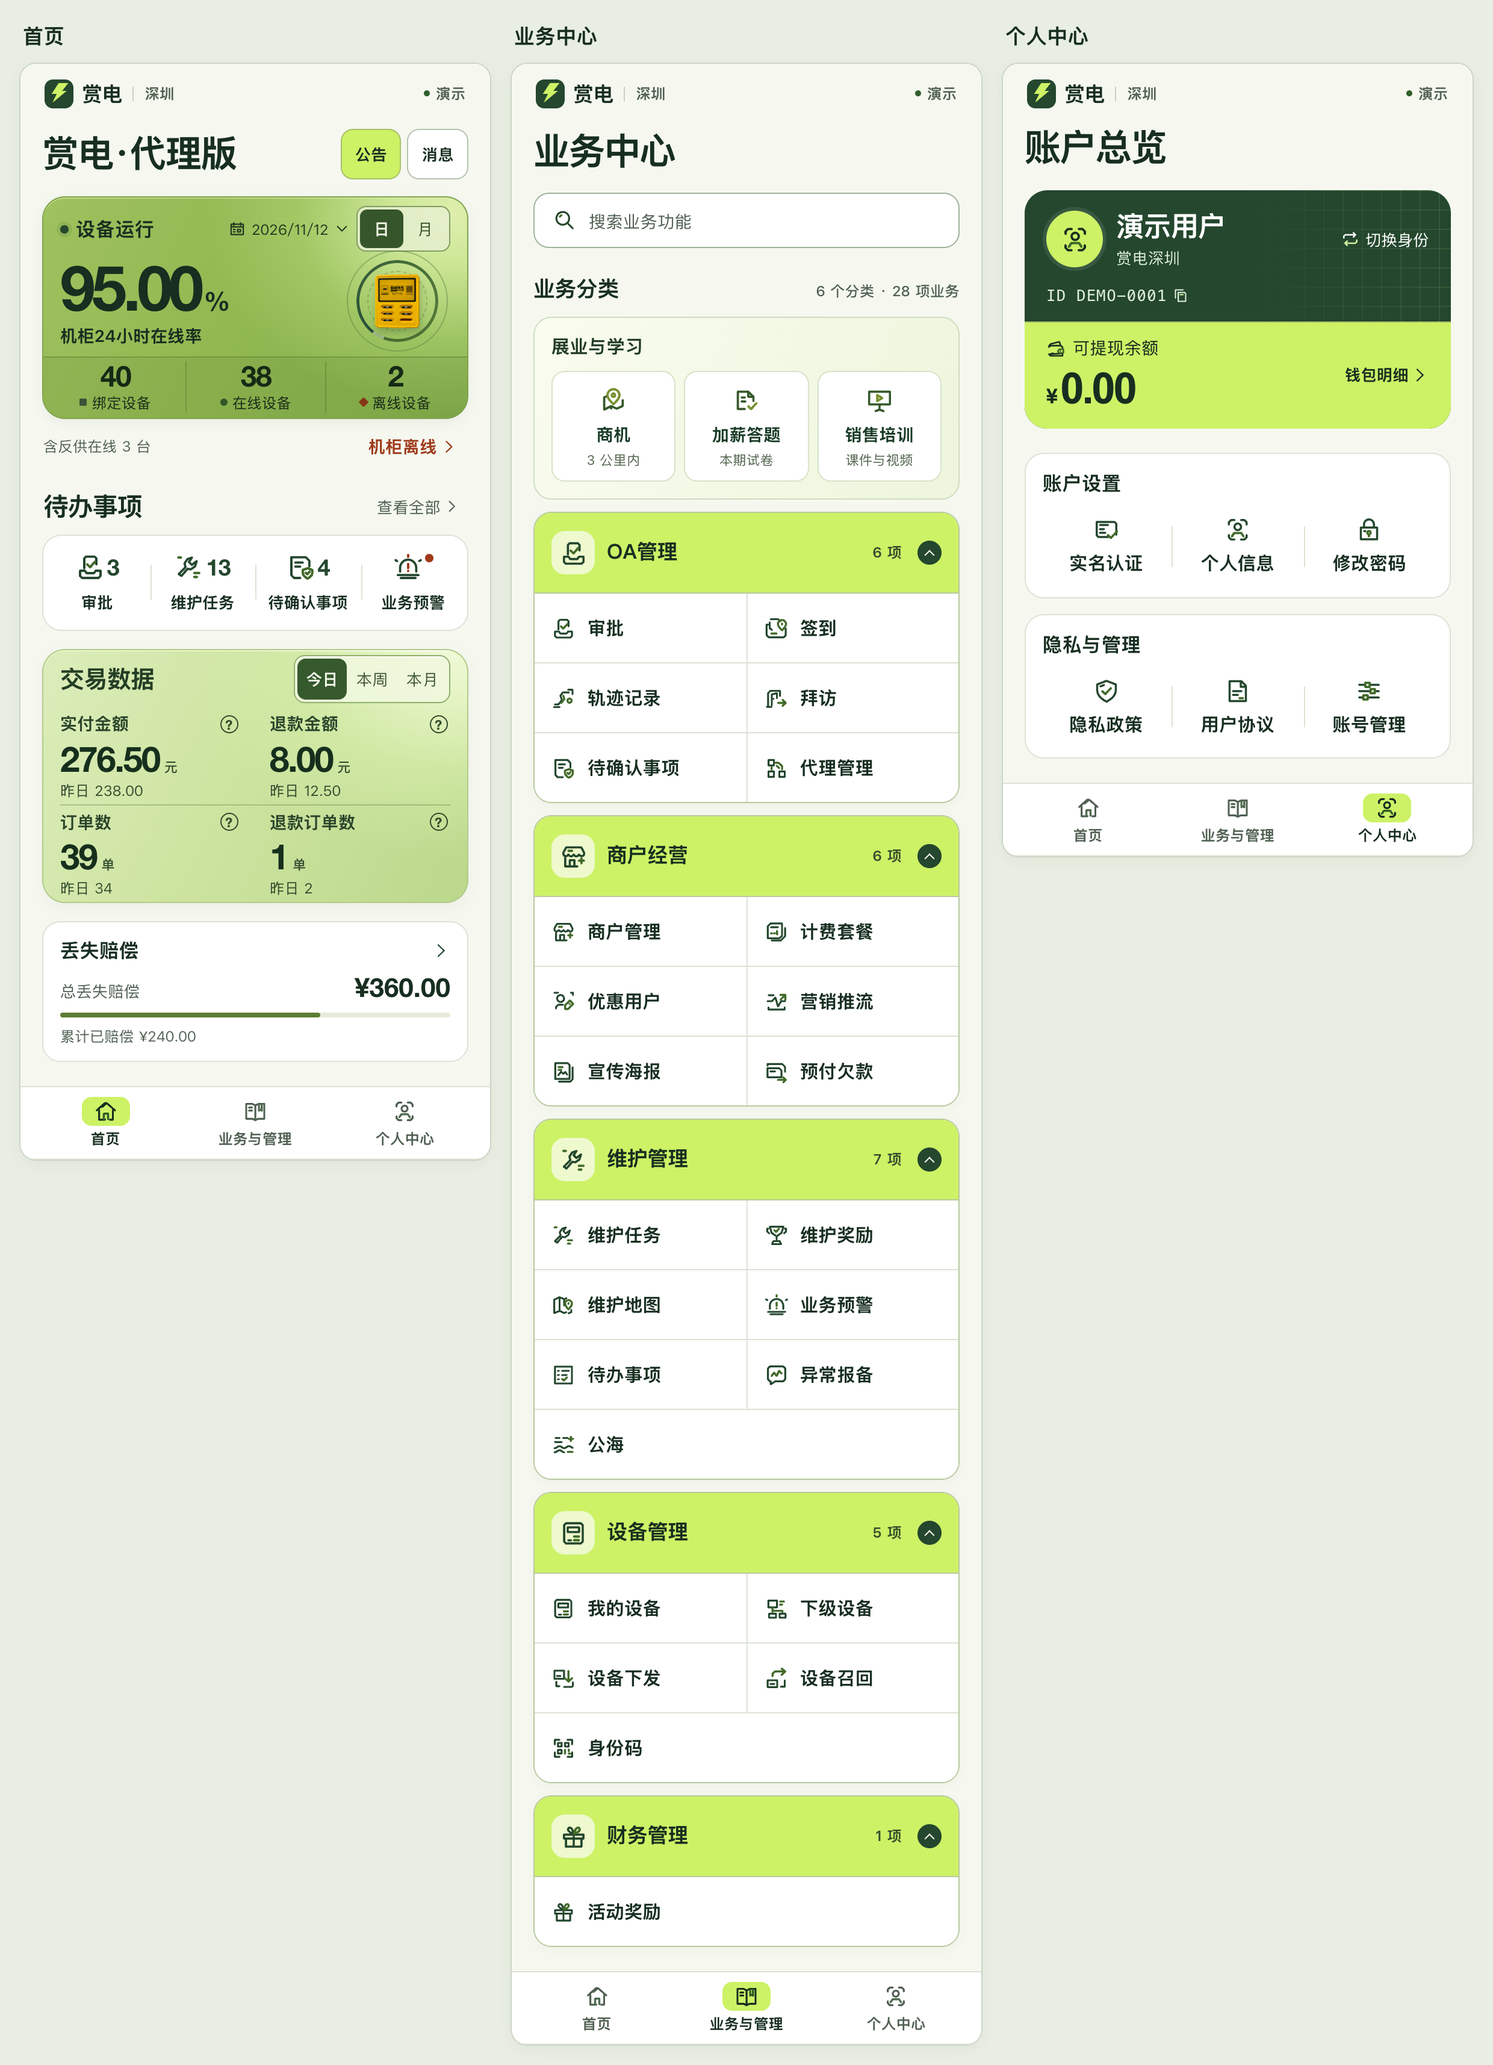
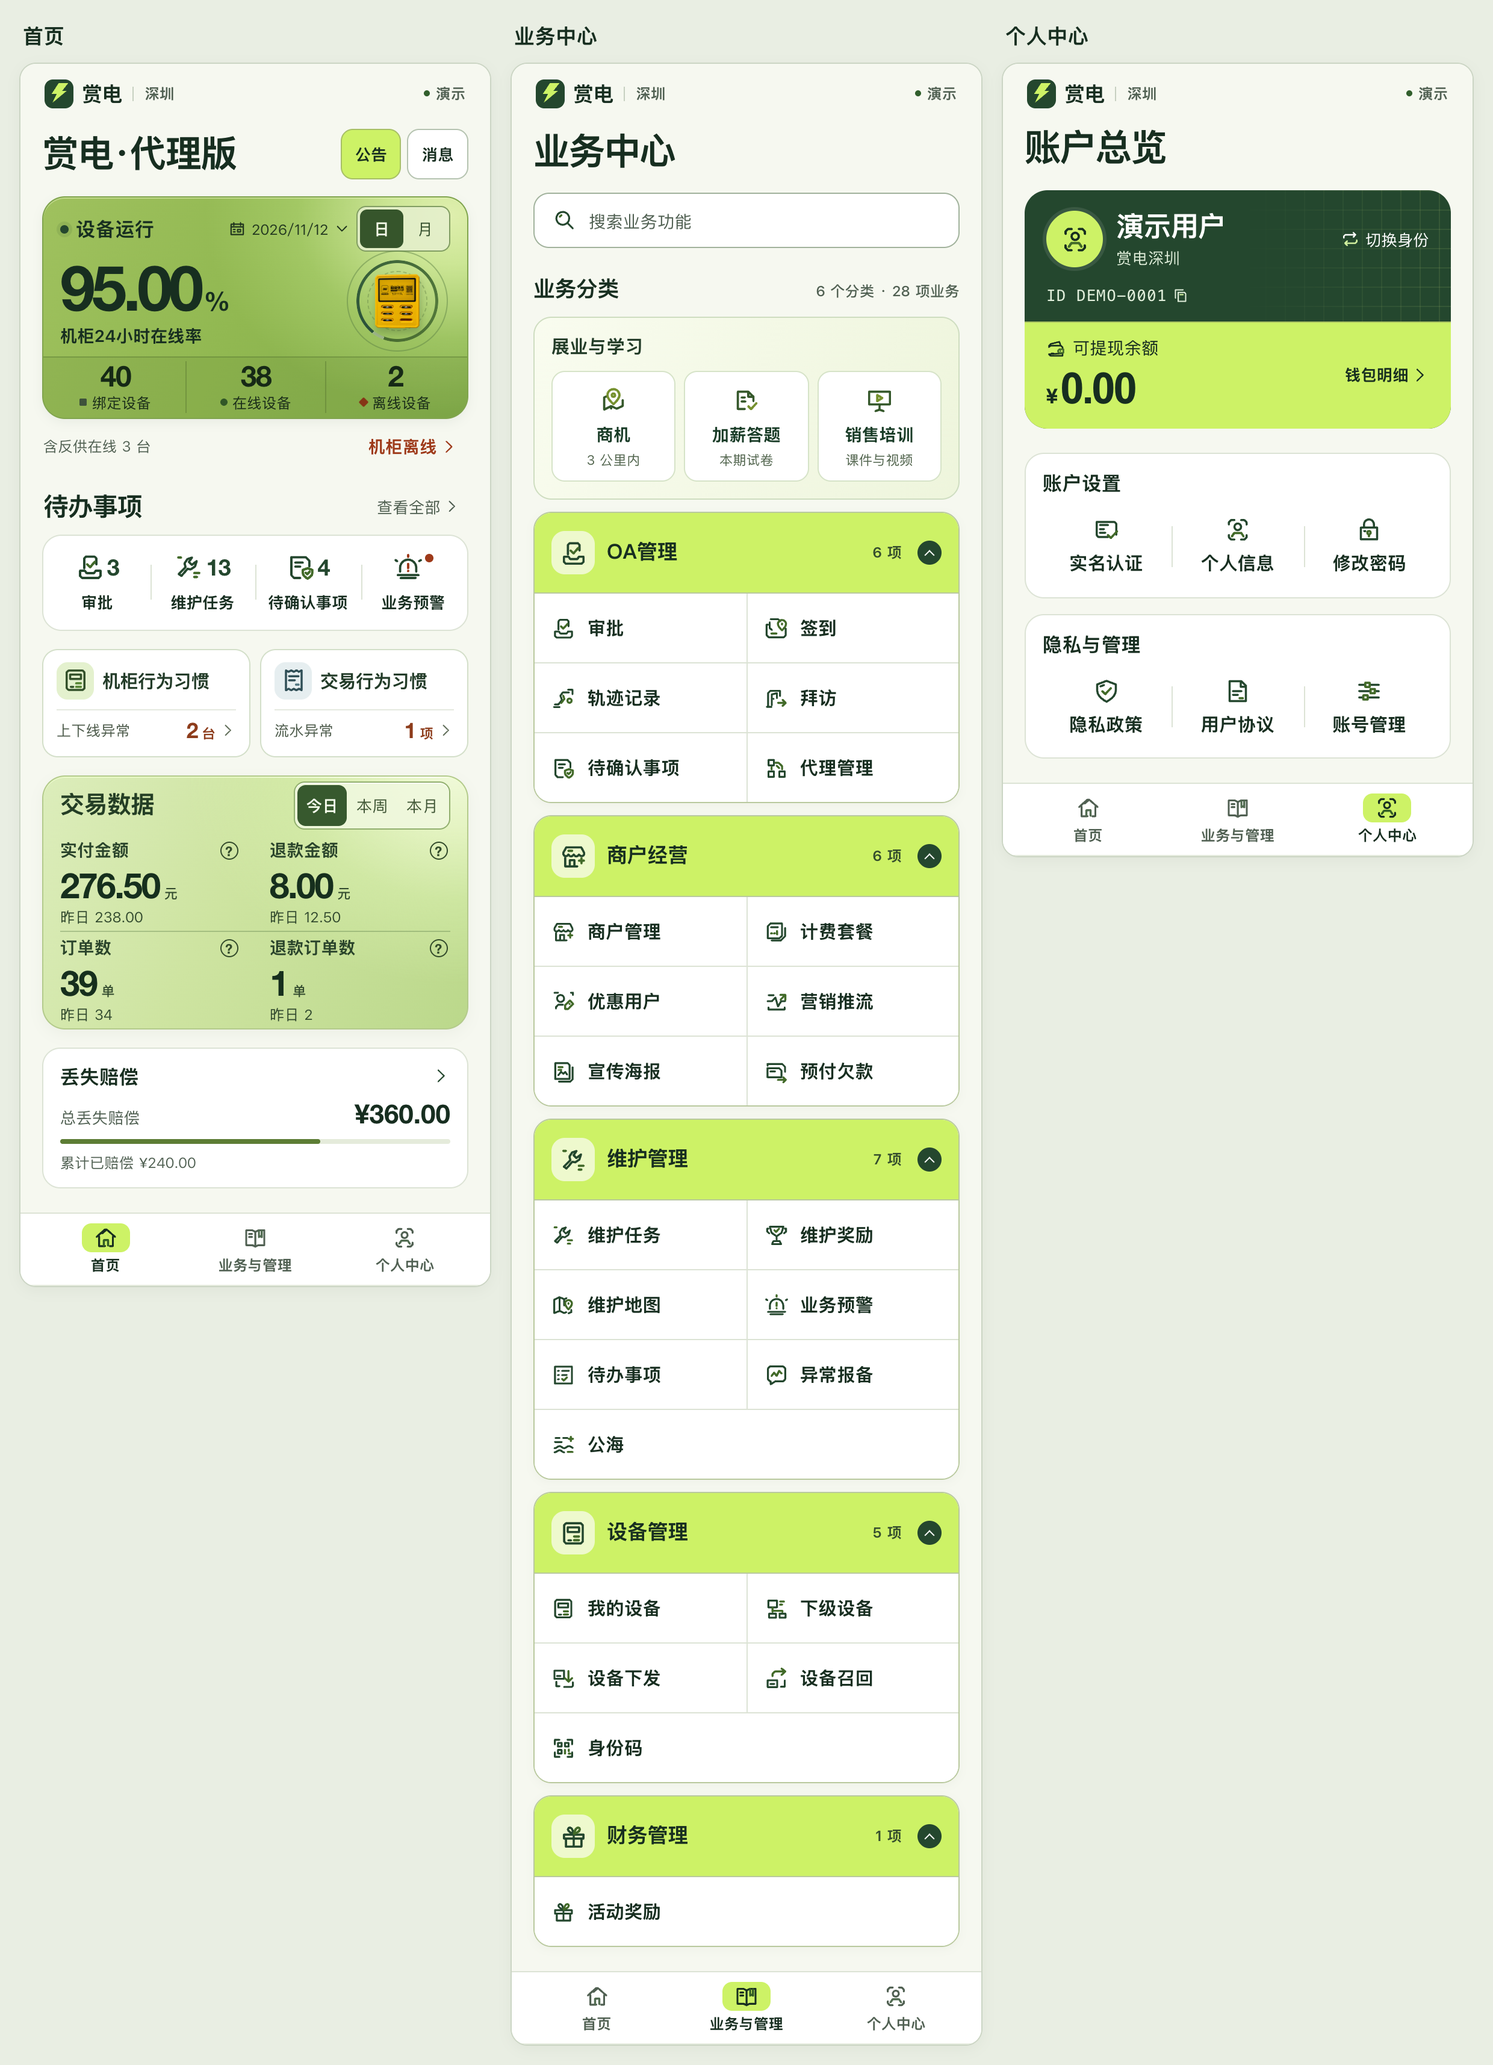
首页新增机柜与交易行为习惯预警示例，更新三页整图

Changed region(s): [[0.0, 0.312, 0.3415, 0.6239]]

diff --git a/index.html b/index.html
@@ -617,6 +617,53 @@ body { background: #e6ecdf; }
 
 .a-offline-entry { color: var(--lime-alert); }
 
+.a-home .a-habits { display: grid; grid-template-columns: repeat(2, minmax(0, 1fr)); gap: 8px; }
+.a-habit {
+  min-width: 0;
+  padding: 10px 11px;
+  background: #fff;
+  border: 1px solid #d3dfc9;
+  border-radius: 13px;
+  text-align: left;
+  color: #223b28;
+}
+.a-habit-label, .a-habit-status { display: flex; align-items: center; }
+.a-habit-label { gap: 7px; white-space: nowrap; }
+.a-habit-label i {
+  display: grid;
+  place-items: center;
+  flex: none;
+  width: 31px;
+  height: 31px;
+  border-radius: 9px;
+  background: #e4f1ce;
+  color: #33512a;
+  --icon-accent: #598737;
+}
+.a-habit-label b { font-size: 15px; font-weight: 700; letter-spacing: -.035em; }
+.a-habit[data-a-habit="trade"] .a-habit-label i { background: #e6eef0; color: #304f57; --icon-accent: #537883; }
+.a-habit-status {
+  gap: 4px;
+  margin-top: 8px;
+  padding-top: 6px;
+  min-height: 24px;
+  border-top: 1px solid #e5e9df;
+  color: #4c5a4a;
+  font-size: 12px;
+}
+.a-habit-status strong { margin-left: auto; color: #8d3c1b; font: 700 18px/1.2 var(--num); }
+.a-habit-status small { margin-left: 3px; font: 550 11px var(--face); }
+.a-habit-status svg { color: #65725e; }
+.a-habit:focus-visible { outline: 2px solid #416932; outline-offset: 2px; }
+.a-habit:active { background: #f1f6ea; }
+@media (max-width: 355px) {
+  .a-habit { padding: 9px 8px; }
+  .a-habit-label { gap: 5px; }
+  .a-habit-label b { font-size: 14px; }
+  .a-habit-label i { width: 26px; height: 27px; }
+  .a-habit-label svg { width: 19px; }
+}
+
 .a-home .a-trade {
   position: relative;
   isolation: isolate;
@@ -855,6 +902,97 @@ body { background: #e6ecdf; }
 .tr-cover {display:grid;place-content:center;justify-items:center;gap:9px;min-height:155px;font-size:12px;font-weight:680;}
 .tr-cover-icon {display:grid;place-items:center;background:#ffffffb3;border:1px solid #c8d8bc;width:75px;height:75px;border-radius:16px;}
 .tr-file-text {padding:20px 16px;}.tr-file-text small {font-size:12px;color:#536750;}.tr-file-text h3 {font-size:20px;line-height:1.55;margin:6px 0 12px;overflow-wrap:anywhere;}.tr-file-text p {margin:0;}
+
+.ha-page {
+  display: grid;
+  gap: 12px;
+  color: var(--ink);
+}
+.ha-meta, .ha-filter, .ha-row-heading, .ha-row-compare {
+  display: flex;
+  align-items: center;
+  gap: 8px;
+}
+.ha-meta, .ha-filter { justify-content: space-between; }
+.ha-meta time, .ha-note, .ha-field-note, .ha-row-sub, .ha-row-compare {
+  font-size: 12px;
+  line-height: 1.55;
+  color: var(--muted);
+}
+.ha-filter > span { font-size: 13px; font-weight: 650; }
+.ha-segment {
+  display: inline-flex;
+  gap: 2px;
+  padding: 3px;
+  border-radius: 10px;
+  background: #e7eddf;
+}
+.ha-segment button {
+  min-width: 51px;
+  min-height: 38px;
+  padding: 4px 8px;
+  border-radius: 7px;
+  font-size: 12px;
+  font-weight: 650;
+}
+.ha-segment button[aria-pressed="true"] { background: #315337; color: white; }
+.ha-group { display: grid; gap: 8px; }
+.ha-group h3 {
+  display: flex;
+  align-items: center;
+  gap: 8px;
+  margin: 1px 0 0;
+  font-size: 17px;
+}
+.ha-group h3 small { color: var(--muted); font-size: 12px; font-weight: 550; }
+.ha-row, .ha-comparison, .ha-facts {
+  background: white;
+  border: 1px solid var(--line);
+  border-radius: 14px;
+}
+.ha-row {
+  display: grid;
+  gap: 3px;
+  width: 100%;
+  min-width: 0;
+  padding: 13px;
+  text-align: left;
+  line-height: 1.45;
+}
+.ha-row-heading b { margin-right: auto; font-size: 15px; }
+.ha-row-heading > svg { color: var(--muted); }
+.ha-issue {
+  flex: none;
+  padding: 2px 6px;
+  border-radius: 5px;
+  background: #fff0e7;
+  color: #893c20;
+  font-size: 11px;
+  font-weight: 650;
+}
+.ha-row-compare { flex-wrap: wrap; column-gap: 4px; row-gap: 0; margin-top: 5px; }
+.ha-row-compare strong { color: var(--ink); }
+.ha-comparison {
+  display: grid;
+  grid-template-columns: repeat(2, minmax(0, 1fr));
+  padding: 15px 0;
+  background: #eef4e4;
+}
+.ha-comparison > div { display: grid; align-content: start; gap: 6px; padding: 0 12px; }
+.ha-comparison > div + div { border-left: 1px solid #ced9c3; }
+.ha-comparison span, .ha-facts dt { font-size: 12px; color: var(--muted); }
+.ha-comparison b {
+  font: 650 clamp(17px, 4.8vw, 21px)/1.35 var(--num);
+  font-variant-numeric: tabular-nums;
+  color: #29432e;
+  white-space: nowrap;
+}
+.ha-facts { display: grid; padding: 0 13px; margin: 0; }
+.ha-facts > div { display: grid; grid-template-columns: auto 1fr; align-items: baseline; gap: 14px; padding: 11px 0; }
+.ha-facts > div + div { border-top: 1px solid var(--line); }
+.ha-facts dd { margin: 0; text-align: right; font-size: 13px; line-height: 1.5; font-weight: 600; }
+.ha-note, .ha-field-note { margin: 0; }
+.ha-field-note { padding: 2px 1px; }
 </style></head>
 <body>
 <div id="board" hidden>
@@ -2364,6 +2502,142 @@ body { background: #e6ecdf; }
     if (control.hasAttribute('data-training-file')) fileCard(Number(control.dataset.trainingFile));
   });
 })();
+
+;
+(() => {
+  'use strict';
+
+  const cabinetAlerts = [
+    {
+      id: 'late', store: '青禾咖啡（示例店）', device: 'DEMO-C01', site: '示例街区 A 座一层 · 收银台左侧',
+      event: '上线', issue: '上线偏晚', actual: '09:45', current: '在线',
+      history: {1: '08:55', 7: '08:48–09:06', 30: '08:40–09:12'}
+    },
+    {
+      id: 'early', store: '松果书屋（示例店）', device: 'DEMO-C02', site: '示例街区 B 座二层 · 服务台旁',
+      event: '离线', issue: '离线偏早', actual: '15:30', current: '离线',
+      history: {1: '20:52', 7: '20:40–21:10', 30: '20:32–21:18'}
+    }
+  ];
+  // 同一条流水提醒可从门店或关联机柜查看。两种范围不重复计入入口数量。
+  const tradeAlerts = [{
+    id: 'slow', store: '松果书屋（示例店）', device: 'DEMO-C02', site: '示例街区 B 座二层 · 服务台旁',
+    merchant: {actual: 10.50, history: {1: 48, 7: 45.50, 30: 46.20}},
+    deviceScope: {actual: 0, history: {1: 24, 7: 22.50, 30: 23.10}}
+  }];
+  const titles = {cabinet: '机柜行为习惯', trade: '交易行为习惯'};
+  const windows = [1, 7, 30];
+  const scopes = {merchant: '商户', deviceScope: '机柜'};
+  const index = {cabinet: cabinetAlerts, trade: tradeAlerts};
+  const money = value => '¥' + value.toFixed(2);
+  const glyph = (name, size = 16) => window.icon(name, size);
+
+  function filters(type, days, scope) {
+    const periods = windows.map(n =>
+      `<button type="button" data-ha-days="${n}" aria-pressed="${n === days}">近 ${n} 天</button>`).join('');
+    const scopeTabs = Object.entries(scopes).map(([key, label]) =>
+      `<button type="button" data-ha-scope="${key}" aria-pressed="${scope === key}">按${label}</button>`).join('');
+    return `<div class="ha-filter"><span>历史学习窗口</span><div class="ha-segment" role="group" aria-label="历史学习窗口">${periods}</div></div>
+      ${type === 'trade' ? `<div class="ha-filter"><span>流水范围</span><div class="ha-segment" role="group" aria-label="流水范围">${scopeTabs}</div></div>` : ''}`;
+  }
+  function snapshot() {
+    return '<div class="ha-meta"><span class="fl-context"><span></span>演示数据</span><time datetime="2026-11-12T17:00">11 月 12 日 · 截至 17:00</time></div>';
+  }
+  function comparison(type, row, days, scope) {
+    if(type === 'cabinet')return {
+      label: '今日' + row.event, actual: row.actual,
+      previous: days === 1 ? '昨日' + row.event : '近 ' + days + ' 天' + row.event + '时段', typical: row.history[days]
+    };
+    const amounts = row[scope];
+    return {
+      label: '今日同期实付', actual: money(amounts.actual),
+      previous: days === 1 ? '昨日同期实付' : '近 ' + days + ' 天同期日均', typical: money(amounts.history[days])
+    };
+  }
+  function compareCard(values) {
+    return `<div class="ha-comparison"><div><span>${values.label}</span><b>${values.actual}</b></div>
+      <div><span>${values.previous}</span><b>${values.typical}</b></div></div>`;
+  }
+  function heading(type, row, scope) {
+    return type === 'trade' && scope === 'deviceScope' ? row.device : row.store;
+  }
+  function subtitle(type, row, scope) {
+    if(type === 'trade' && scope === 'merchant')return '关联机柜 ' + row.device;
+    return type === 'trade' ? row.store : row.device;
+  }
+  function description(type, days, scope) {
+    if(type === 'trade')return scope === 'merchant'
+      ? '汇总门店全部机柜的实付金额，对照每天截至 17:00 的累计值。'
+      : '仅统计这台机柜的实付金额，对照每天截至 17:00 的累计值。';
+    return days === 1 ? '用昨天的上下线时刻，对照今天的实际记录。'
+      : `用此前 ${days} 天的上下线时段，对照今天的实际记录。`;
+  }
+  function list(type, days, scope) {
+    const rows = index[type];
+    const unit = type === 'cabinet' ? '台' : '项';
+    return `<section class="ha-group"><h3>今日异常 <small>${rows.length} ${unit}</small></h3>${rows.map(row => {
+      const values = comparison(type, row, days, scope);
+      return `<button class="ha-row" type="button" data-ha-row="${row.id}"><span class="ha-row-heading">
+        <b>${heading(type, row, scope)}</b><span class="ha-issue">${row.issue || '流水偏低'}</span>${glyph('chevron-right',14)}</span>
+        <span class="ha-row-sub">${subtitle(type, row, scope)}</span>
+        <span class="ha-row-compare">${values.label} <strong>${values.actual}</strong><span>·</span>${values.previous} ${values.typical}</span></button>`;
+    }).join('')}</section>`;
+  }
+  function facts(entries) {
+    return `<dl class="ha-facts">${entries.map(([label, value]) => `<div><dt>${label}</dt><dd>${value}</dd></div>`).join('')}</dl>`;
+  }
+  function detail(type, row, days, scope) {
+    const cabinet = type === 'cabinet';
+    const entries = [['门店',row.store],[cabinet ? '机柜编号' : '关联机柜',row.device],['摆放位置',row.site]];
+    if(cabinet)entries.push(['17:00 设备状态',row.current]);
+    const fieldNote = cabinet
+      ? row.id === 'late' ? '今天的上线时间晚于参考记录。可先向店员核对开店和接通电源的时间。' : '今天的离线时间早于参考记录。可先核对门店营业情况，再到服务台旁检查机柜供电和网络。'
+      : '可结合门店营业情况与设备运行记录，核对今天的交易变化。';
+    return `<section class="ha-group"><h3>${cabinet ? row.issue : scopes[scope] + '流水偏低'}</h3>
+      ${compareCard(comparison(type, row, days, scope))}</section>
+      <section class="ha-group"><h3>上门核对</h3>${facts(entries)}<p class="ha-field-note">${fieldNote}</p></section>`;
+  }
+  function paint(page) {
+    const {haType: type, haRowKey, haScope: scope} = page.dataset;
+    const days = Number(page.dataset.haWindow);
+    const row = index[type].find(item => item.id === haRowKey);
+    page.innerHTML = `${snapshot()}${filters(type, days, scope)}<p class="ha-note">${description(type, days, scope)}</p>
+      ${row ? detail(type, row, days, scope) : list(type, days, scope)}`;
+  }
+  function open(type, rowId = '', days = 7, scope = 'merchant') {
+    if(type !== 'cabinet' && type !== 'trade')return;
+    const title = rowId ? (type === 'cabinet' ? '机柜异常详情' : '流水异常详情') : titles[type];
+    const page = document.createElement('section');
+    page.className = 'ha-page';
+    Object.assign(page.dataset, {haType: type, haRowKey: rowId, haWindow: String(days), haScope: scope});
+    paint(page);
+    window.showSheet(title, page.outerHTML, {flow: true, key: 'ha.' + type + '.' + rowId});
+  }
+  document.addEventListener('click', event => {
+    const button = event.target.closest('.ha-page button');
+    if(!button)return;
+    const page = button.closest('.ha-page');
+    const {haType: type, haScope: scope, haWindow: period} = page.dataset;
+    if(button.hasAttribute('data-ha-row')){
+      const key = button.dataset.haRow;
+      if(index[type].some(item => item.id === key))open(type, key, Number(period), scope);
+      return;
+    }
+    const days = Number(button.dataset.haDays);
+    let selector;
+    if(windows.includes(days)){
+      page.dataset.haWindow = String(days);
+      selector = '[data-ha-days="' + days + '"]';
+    }else if(Object.prototype.hasOwnProperty.call(scopes, button.dataset.haScope)){
+      page.dataset.haScope = button.dataset.haScope;
+      selector = '[data-ha-scope="' + button.dataset.haScope + '"]';
+    }else return;
+    paint(page);
+    page.querySelector(selector)?.focus({preventScroll: true});
+  });
+  window.habitAlertCounts = Object.freeze({cabinet: cabinetAlerts.length, trade: tradeAlerts.length});
+  window.openHabitAlerts = type => open(type);
+})();
 </script>
 <script>(() => {
   'use strict';
@@ -2648,6 +2922,20 @@ body { background: #e6ecdf; }
     return `<section><div class="a-sh"><h2>待办事项</h2><button type="button" data-detail="待办事项">查看全部 ${icon('chevron-right', 13)}</button></div>
       <div class="a-queue">${taskEntries.map(([name, count, symbol], i) => `<button type="button" class="a-task task-${i}" data-detail="${name}"><span class="a-task-top">${icon(symbol, 24)}${count ? `<b>${count}</b>` : '<i aria-label="有预警"></i>'}</span><span>${name}</span></button>`).join('')}</div></section>`;
   }
+  function renderHabitAlerts() {
+    const entries = [
+      {kind:'cabinet', title:'机柜行为习惯', status:'上下线异常', unit:'台', icon:'mg-我的设备'},
+      {kind:'trade', title:'交易行为习惯', status:'流水异常', unit:'项', icon:'receipt-text'}
+    ];
+    const buttons = entries.map(item => {
+      const count = window.habitAlertCounts[item.kind];
+      return `<button type="button" class="a-habit" data-a-habit="${item.kind}" aria-haspopup="dialog">
+        <span class="a-habit-label"><i aria-hidden="true">${icon(item.icon,22)}</i><b>${item.title}</b></span>
+        <span class="a-habit-status"><span>${item.status}</span><strong>${count}<small>${item.unit}</small></strong>${icon('chevron-right',13)}</span>
+      </button>`;
+    });
+    return `<section class="a-habits" aria-label="行为习惯预警入口">${buttons.join('')}</section>`;
+  }
   function renderCabinets(data) {
     const counts = [bound, online, offline];
     return `<section class="a-operations" aria-label="设备运行"><div class="a-hero">
@@ -2708,12 +2996,13 @@ body { background: #e6ecdf; }
     cabinetPeriod = data;
     return `<div class="a-home"><div class="a-title"><h1>赏电·代理版</h1><div class="a-quick">
       <button type="button" data-a-panel="notice">公告</button><button type="button" data-a-panel="message">消息</button></div></div>
-      ${renderCabinets(data)}${renderTasks()}${renderSales()}${renderLoss()}</div>`;
+      ${renderCabinets(data)}${renderTasks()}${renderHabitAlerts()}${renderSales()}${renderLoss()}</div>`;
   };
 
   document.addEventListener('click', e => {
-    const button = e.target.closest('button[data-a-period],button[data-a-metric],button[data-a-panel],button[data-a-review]');
+    const button = e.target.closest('button[data-a-period],button[data-a-metric],button[data-a-panel],button[data-a-review],button[data-a-habit]');
     if (!button) return;
+    if (button.hasAttribute('data-a-habit')) { window.openHabitAlerts(button.dataset.aHabit); return; }
     if (button.dataset.aPeriod) {
       salesPeriod = button.dataset.aPeriod;
       const block = button.closest('.a-trade');
